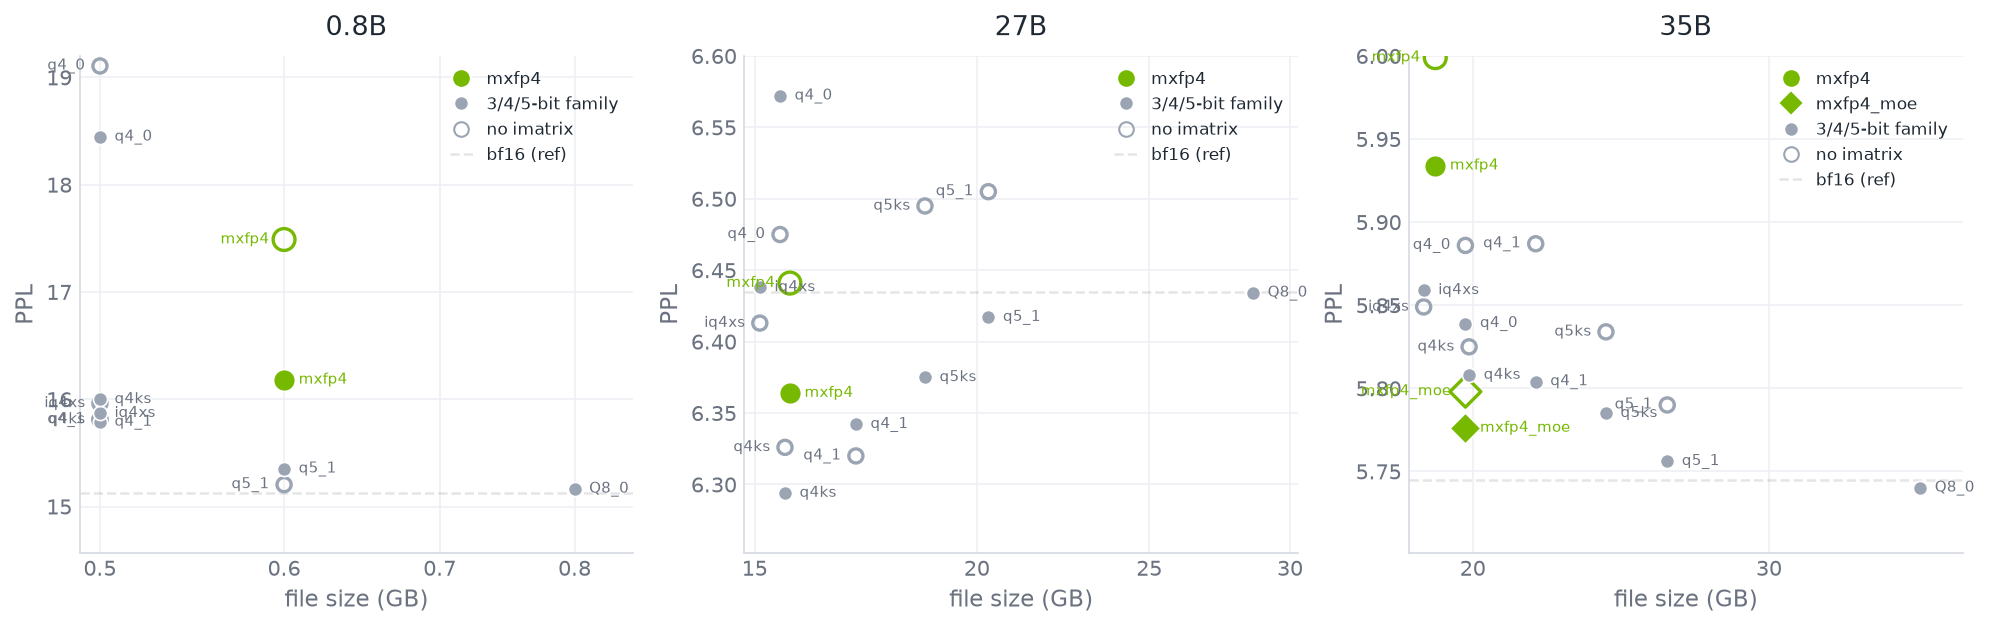
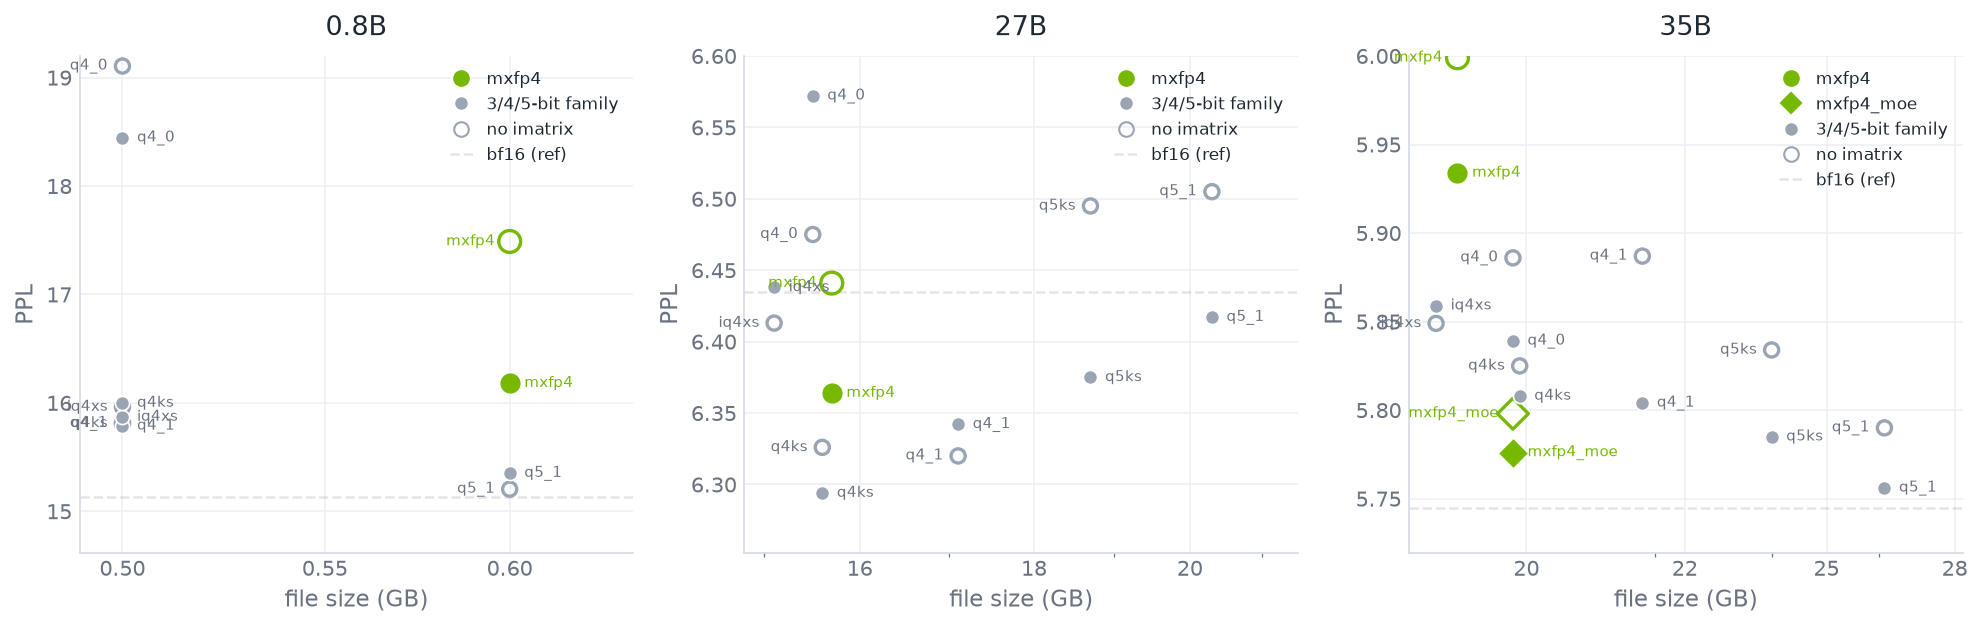
Charts: w4a8 prefill +2000/3000 ticks, decode +25/75/300; ppl: drop Q8_0 ref point (stays in tables) so points spread out; x-label decimals adapt to range (no duplicate labels)
Assisted-by: pi

diff --git a/charts.py b/charts.py
@@ -165,7 +165,7 @@ def ppl_vs_size():
     fig, axgrid = new_figure(1, 3, w=5.4, h=4.3)
     for ax, (model, rows) in zip(axgrid, PPL.items()):
         style_axes(ax, title=model, xlabel="file size (GB)", ylabel="PPL", xlog=True)
-        plot_rows = [r for r in rows if r[0] not in ("bf16", "q3ks")]
+        plot_rows = [r for r in rows if r[0] not in ("bf16", "q3ks", "Q8_0")]
         scatter_quant_points(ax, plot_rows)
         bf16 = next((r[2] for r in rows if r[0] == "bf16"), None)
         if bf16 is not None:
@@ -174,7 +174,9 @@ def ppl_vs_size():
         from matplotlib.ticker import FuncFormatter, MaxNLocator
         # log scale, but the range spans < 1 decade: place regular-number ticks with a linear-style locator
         ax.xaxis.set_major_locator(MaxNLocator(nbins=4, steps=[1, 2, 2.5, 5, 10]))
-        ax.xaxis.set_major_formatter(FuncFormatter(lambda v, _: f"{v:.1f}" if v < 10 else f"{v:.0f}"))
+        xspan = max(r[1] for r in plot_rows) - min(r[1] for r in plot_rows)
+        nd = 2 if xspan < 1 else 0
+        ax.xaxis.set_major_formatter(FuncFormatter(lambda v, _, nd=nd: f"{v:.{nd}f}" if v < 10 else f"{v:.0f}"))
         allvals = [r[2] for r in plot_rows] + [r[3] for r in plot_rows if r[3] is not None]
         ymin, ymax = min(allvals), max(allvals)
         pad = (ymax - ymin) * 0.15
@@ -318,8 +320,8 @@ W4A = {
 def w4a8_vs_w4a4():
     fig, ax = new_figure(1, 3, w=4.6, h=3.6)
     panels = [("Mean PPL (lower is better)", 0, 1, False, None),
-              ("prefill pp4096 (t/s)", 2, 3, True, [1000, 5000, 10000, 20000, 40000]),
-              ("decode tg128 (t/s)", 4, 5, True, [50, 100, 150, 200, 400, 600])]
+              ("prefill pp4096 (t/s)", 2, 3, True, [1000, 2000, 3000, 5000, 10000, 20000, 40000]),
+              ("decode tg128 (t/s)", 4, 5, True, [25, 50, 75, 100, 150, 200, 300, 400, 600])]
     models = list(W4A.keys())
     for col, (title, i4, i8, logy, yticks) in enumerate(panels):
         style_axes(ax[col], title=title)
